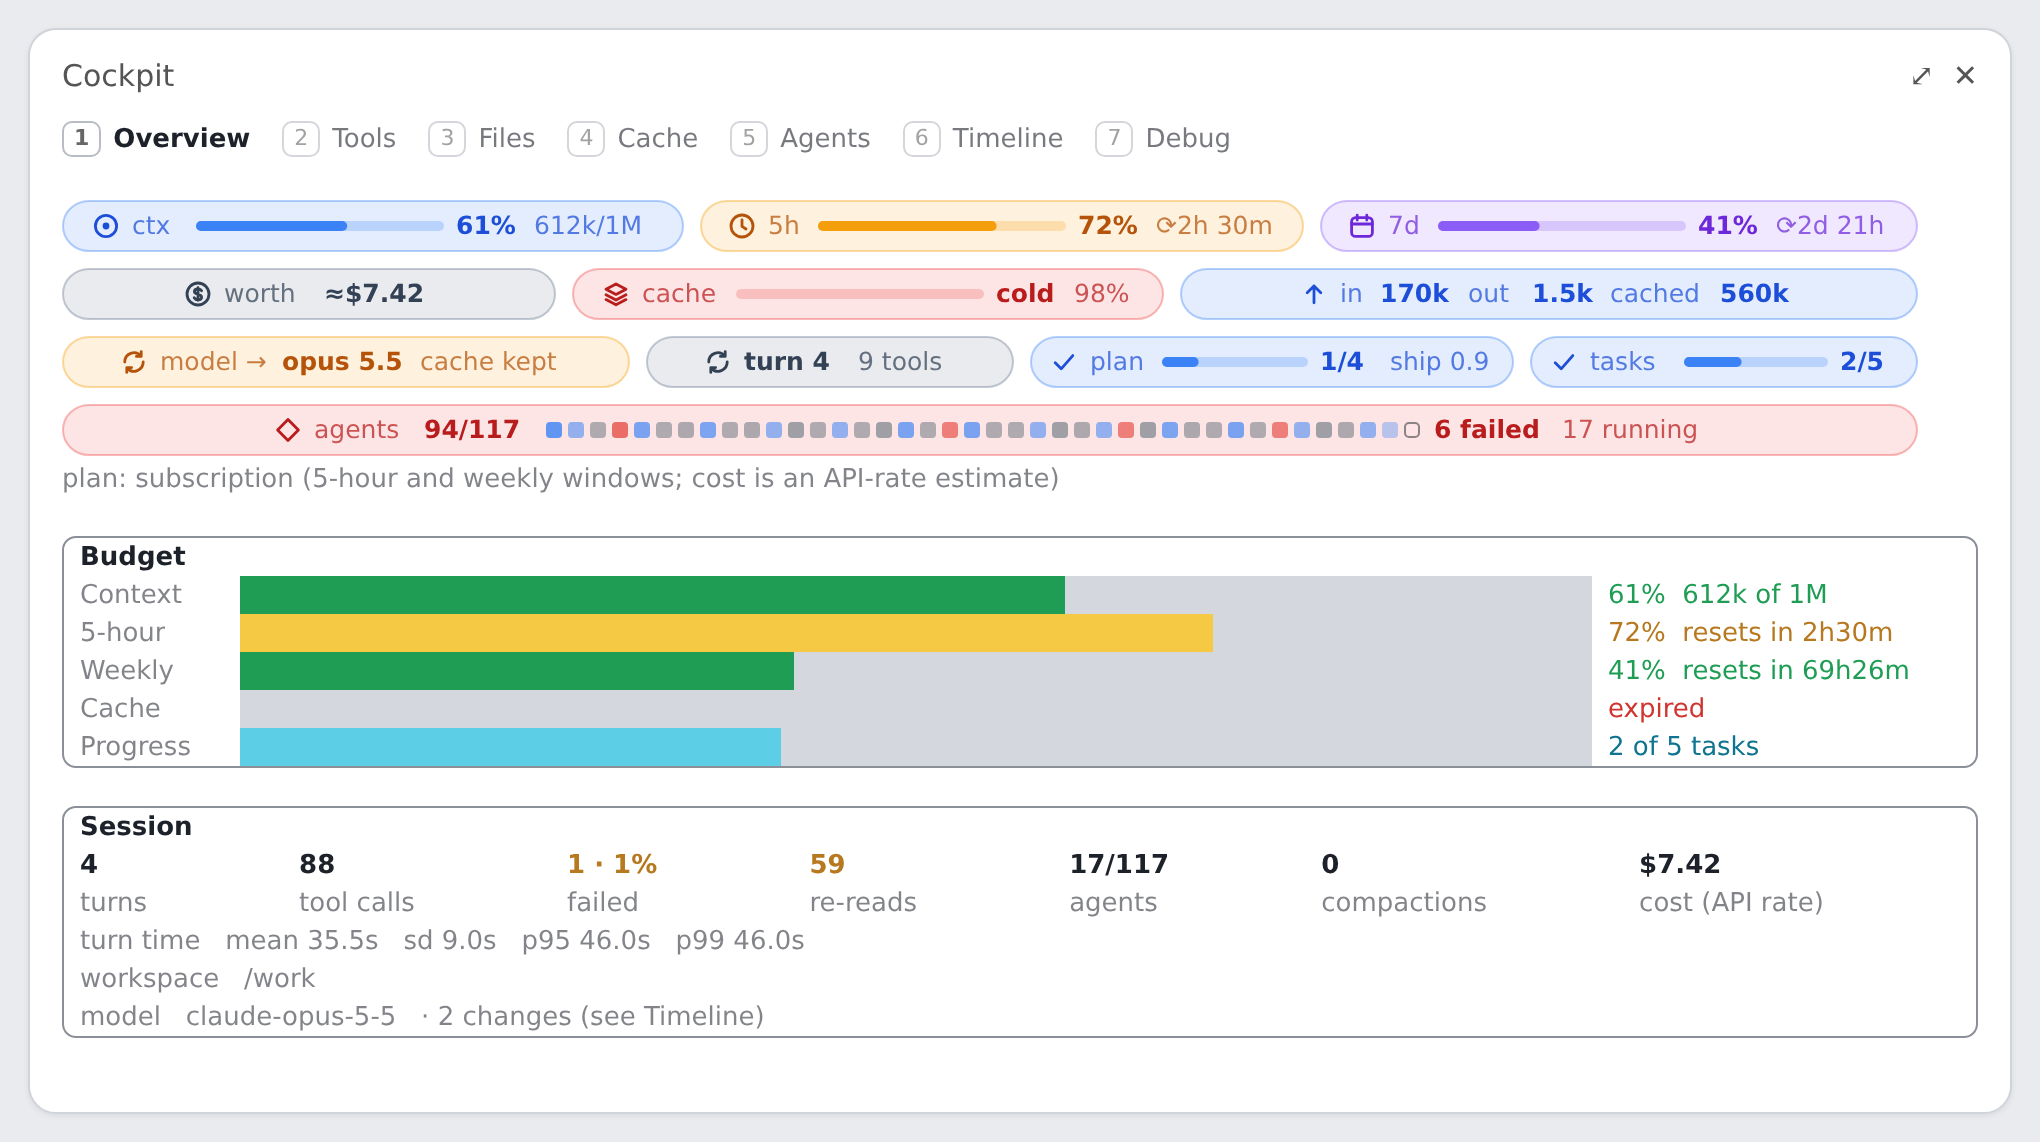
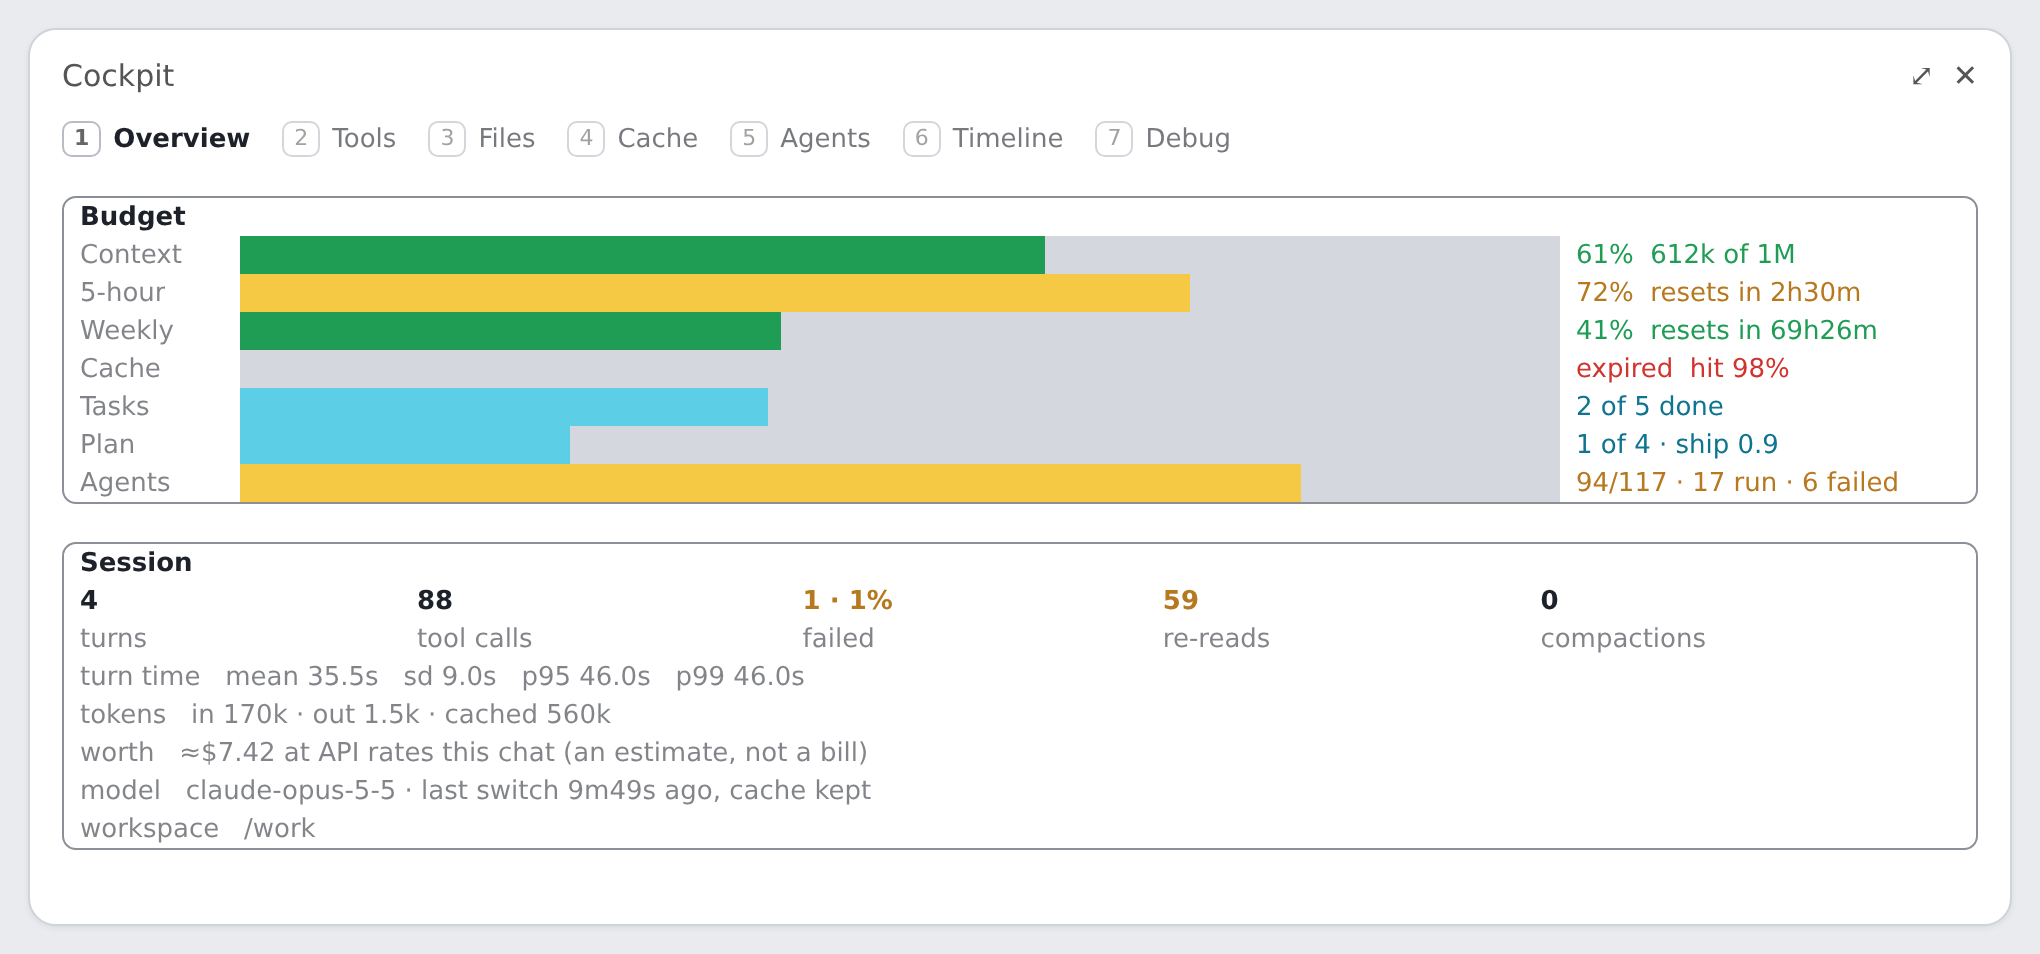
cockpit 0.11.0: Overview shows gauges as detailed bars and no longer repeats the band's pills

diff --git a/lib/views.js b/lib/views.js
@@ -110,9 +110,11 @@ const note = (Text, s, o = {}) => T(Text, s, { dim: true, wrap: 'wrap', ...o })
 const card = (Box, Text, title, kids) => Box({ flexDirection: 'column', borderStyle: 'round', borderColor: 'gray', borderDimColor: true, paddingX: 1, marginBottom: 1, children: [section(Text, title), ...kids] })
 
 // ---------- pane bodies ----------
+// The pills above the chat show the gauges at a glance; this tab shows the same gauges with the detail a pill has no room for,
+// and counters the pills do not carry. Nothing is shown twice.
 function overview(Box, Text, S, now) {
   const budget = (label, pct, text, color) =>
-    Box({ flexDirection: 'row', columnGap: 1, children: [Box({ minWidth: 9, flexShrink: 0, children: [T(Text, label, { dim: true })] }), fbar(Box, pct, color), Box({ minWidth: 22, flexShrink: 0, children: [T(Text, text, { color })] })] })
+    Box({ flexDirection: 'row', columnGap: 1, children: [Box({ minWidth: 9, flexShrink: 0, children: [T(Text, label, { dim: true })] }), fbar(Box, pct, color), Box({ minWidth: 24, flexShrink: 0, children: [T(Text, text, { color })] })] })
 
   const rows = []
   const p = ctxPercent(S)
@@ -124,8 +126,14 @@ function overview(Box, Text, S, now) {
     rows.push(budget(name, l.percentUsed, Math.round(l.percentUsed) + '%' + reset, heat(l.percentUsed)))
   }
   const rem = cacheRemaining(S, now)
-  if (rem !== null) rows.push(budget('Cache', rem > 0 ? (rem / (S.ttlMin * 60000)) * 100 : 0, rem > 0 ? mmss(rem) + ' left' : 'expired', rem > 0 ? cacheColor(rem) : 'red'))
-  if (S.todos && S.todos.total) rows.push(budget('Progress', (S.todos.done / Math.max(1, S.todos.total)) * 100, S.todos.done + ' of ' + S.todos.total + ' tasks', 'cyan'))
+  const last = S.steps[S.steps.length - 1]
+  if (rem !== null) rows.push(budget('Cache', rem > 0 ? (rem / (S.ttlMin * 60000)) * 100 : 0, (rem > 0 ? mmss(rem) + ' left' : 'expired') + (last ? '  hit ' + hitRate(last.read, last.wrote, last.fresh) + '%' : ''), rem > 0 ? cacheColor(rem) : 'red'))
+  if (S.todos && S.todos.total) rows.push(budget('Tasks', (S.todos.done / Math.max(1, S.todos.total)) * 100, S.todos.done + ' of ' + S.todos.total + ' done', 'cyan'))
+  const pl = planProgress(S)
+  if (pl) rows.push(budget('Plan', (pl.done / pl.total) * 100, pl.done + ' of ' + pl.total + ' · ' + pl.title, 'cyan'))
+  const f = agentFleet(S)
+  if (f.total) rows.push(budget('Agents', (f.done / f.total) * 100, f.done + '/' + f.total + (f.running ? ' · ' + f.running + ' run' : '') + (f.failed ? ' · ' + f.failed + ' failed' : ''), f.failed ? 'yellow' : 'cyan'))
+  if (S.account === 'api' && S.budgetUsd > 0 && S.monthUsd > 0) rows.push(budget('Month', (S.monthUsd / S.budgetUsd) * 100, '$' + S.monthUsd.toFixed(0) + ' of $' + S.budgetUsd.toFixed(0), heat((S.monthUsd / S.budgetUsd) * 100)))
   const out = [card(Box, Text, 'Budget', rows)]
 
   const tm = S.turnMs
@@ -136,14 +144,18 @@ function overview(Box, Text, S, now) {
       tile(Box, Text, S.toolCalls, 'tool calls'),
       tile(Box, Text, S.fails + (S.toolCalls ? ' · ' + failRate + '%' : ''), 'failed', S.fails ? 'yellow' : undefined),
       tile(Box, Text, S.repeatReads, 're-reads', S.repeatReads > 5 ? 'yellow' : undefined),
-      tile(Box, Text, runningAgents(S).length + '/' + Object.keys(S.agents).length, 'agents'),
       tile(Box, Text, S.compactions, 'compactions'),
-      tile(Box, Text, S.cost ? '$' + S.cost.usd.toFixed(2) : '-', S.account === 'api' ? 'cost' : 'cost (API rate)'),
     ]),
   ]
   if (tm.length) sess.push(note(Text, 'turn time   mean ' + fmtMs(mean(tm)) + '   sd ' + fmtMs(std(tm)) + '   p95 ' + fmtMs(pctl(tm, 95)) + '   p99 ' + fmtMs(pctl(tm, 99))))
+  if (S.steps.length) sess.push(note(Text, 'tokens   in ' + fmtTok(S.cache.fresh + S.cache.wrote) + ' · out ' + fmtTok(S.outTok || 0) + ' · cached ' + fmtTok(S.cache.read)))
+  if (S.cost && S.cost.usd > 0) {
+    const money = S.account === 'api' ? 'cost   chat $' + S.cost.usd.toFixed(2) + (S.monthUsd > 0 ? ' · month $' + S.monthUsd.toFixed(0) : '') : S.account === 'subscription' ? 'worth   ≈$' + S.cost.usd.toFixed(2) + ' at API rates this chat' + (S.monthUsd > S.cost.usd ? ' · ≈$' + S.monthUsd.toFixed(0) + ' this month' : '') + (S.planFee ? ' · you pay $' + S.planFee.toFixed(0) : '') + ' (an estimate, not a bill)' : 'cost   ≈$' + S.cost.usd.toFixed(2) + ' at API rates (account type unknown: /cockpit account)'
+    sess.push(note(Text, money))
+  }
+  const sw = S.switches[S.switches.length - 1]
+  sess.push(note(Text, 'model   ' + (S.model || '?') + (sw ? ' · last switch ' + fmtMs(now - sw.t) + ' ago, ' + (sw.rewrote > 0.5 * (sw.rewrote + (sw.read || 0)) ? 're-cached ' + fmtTok(sw.rewrote) : 'cache kept') : '')))
   if (S.cwd) sess.push(note(Text, 'workspace   ' + S.cwd))
-  sess.push(note(Text, 'model   ' + (S.model || '?') + (S.modelLog.length > 1 ? '   · ' + (S.modelLog.length - 1) + ' change' + (S.modelLog.length > 2 ? 's' : '') + ' (see Timeline)' : '')))
   out.push(card(Box, Text, 'Session', sess))
 
   const run = Object.values(S.running)

diff --git a/lib/pills.js b/lib/pills.js
@@ -267,12 +267,5 @@ export function paneBody(Box, Text, tab, S, now, cols = 100, surface, Svg) {
     return Box({ flexDirection: 'column', children: grid ? [grid, T(Text, ' '), rest] : [rest] })
   }
   const body = viewsPaneBody(Box, Text, tab, S, now, cols)
-  if (tab !== 'overview') return body
-  const specs = pillSpecs(S, now)
-  let pills
-  const r = surface === 'desktop' && Svg ? svgPills(specs, slotPx(cols)) : null
-  if (r) pills = Svg({ source: r.svg, alt: r.alt, width: r.w, height: r.h })
-  else pills = boxRows(Box, packRows(specs.map((s) => boxPill(Box, Text, s)), Math.max(20, cols), Infinity), Math.max(20, cols), { rowGap: 1 })
-  const plan = limit(S, 'spend_limit') ? 'gateway / enterprise (spend limit)' : limit(S, 'five_hour') || limit(S, 'seven_day') ? 'subscription (5-hour and weekly windows; cost is an API-rate estimate)' : 'unknown'
-  return Box({ flexDirection: 'column', children: [pills, T(Text, 'plan: ' + plan + (S.budgetUsd ? '' : ' · set a monthly budget with /cockpit budget 200'), { dim: true }), T(Text, ' '), body] })
+  return body
 }

diff --git a/README.md b/README.md
@@ -16,7 +16,7 @@ A Claude Code mod: one recorder, many views. Built against Claude Code 2.1.289. 
 - **crew pill** (only while subagents are running, always on its own last row): done / total, one square per subagent in spawn order (blue running, grey done, red failed, amber stopped, hollow = planned and not started; brighter as its context fills), and failed / running counts. Crews over forty are grouped, each square showing the busiest state in its group.
 
 **`/cockpit` pane** (keys 1-7 switch tabs):
-1. **Overview**: budget bars (context, 5-hour, weekly, cache window, task progress), stat tiles (turns, tool calls, failures, re-reads, agents, compactions, cost), turn-time mean / sd / p95 / p99, what is running now
+1. **Overview**: the same gauges as the pills, as bars with the detail a pill has no room for (tokens, reset times, cache hit rate, task, plan and agent progress, month against budget), then session counters (turns, tool calls, failures, re-reads, compactions), turn-time stats, tokens, money, model, workspace, and what is running now. The pills are not repeated here: they live above the prompt
 2. **Tools**: per tool calls, failures, mean, sd, p50, p95, p99, with a p95 bar (last 500 calls per tool)
 3. **Files**: reads, edits and repeated reads per file. Paths are relative to the workspace folder; a file outside it is shown in full with ↗
 4. **Cache**: window countdown, read / wrote / new / output totals, every model or effort switch with the tokens it forced the cache to re-write, a stacked bar per request
